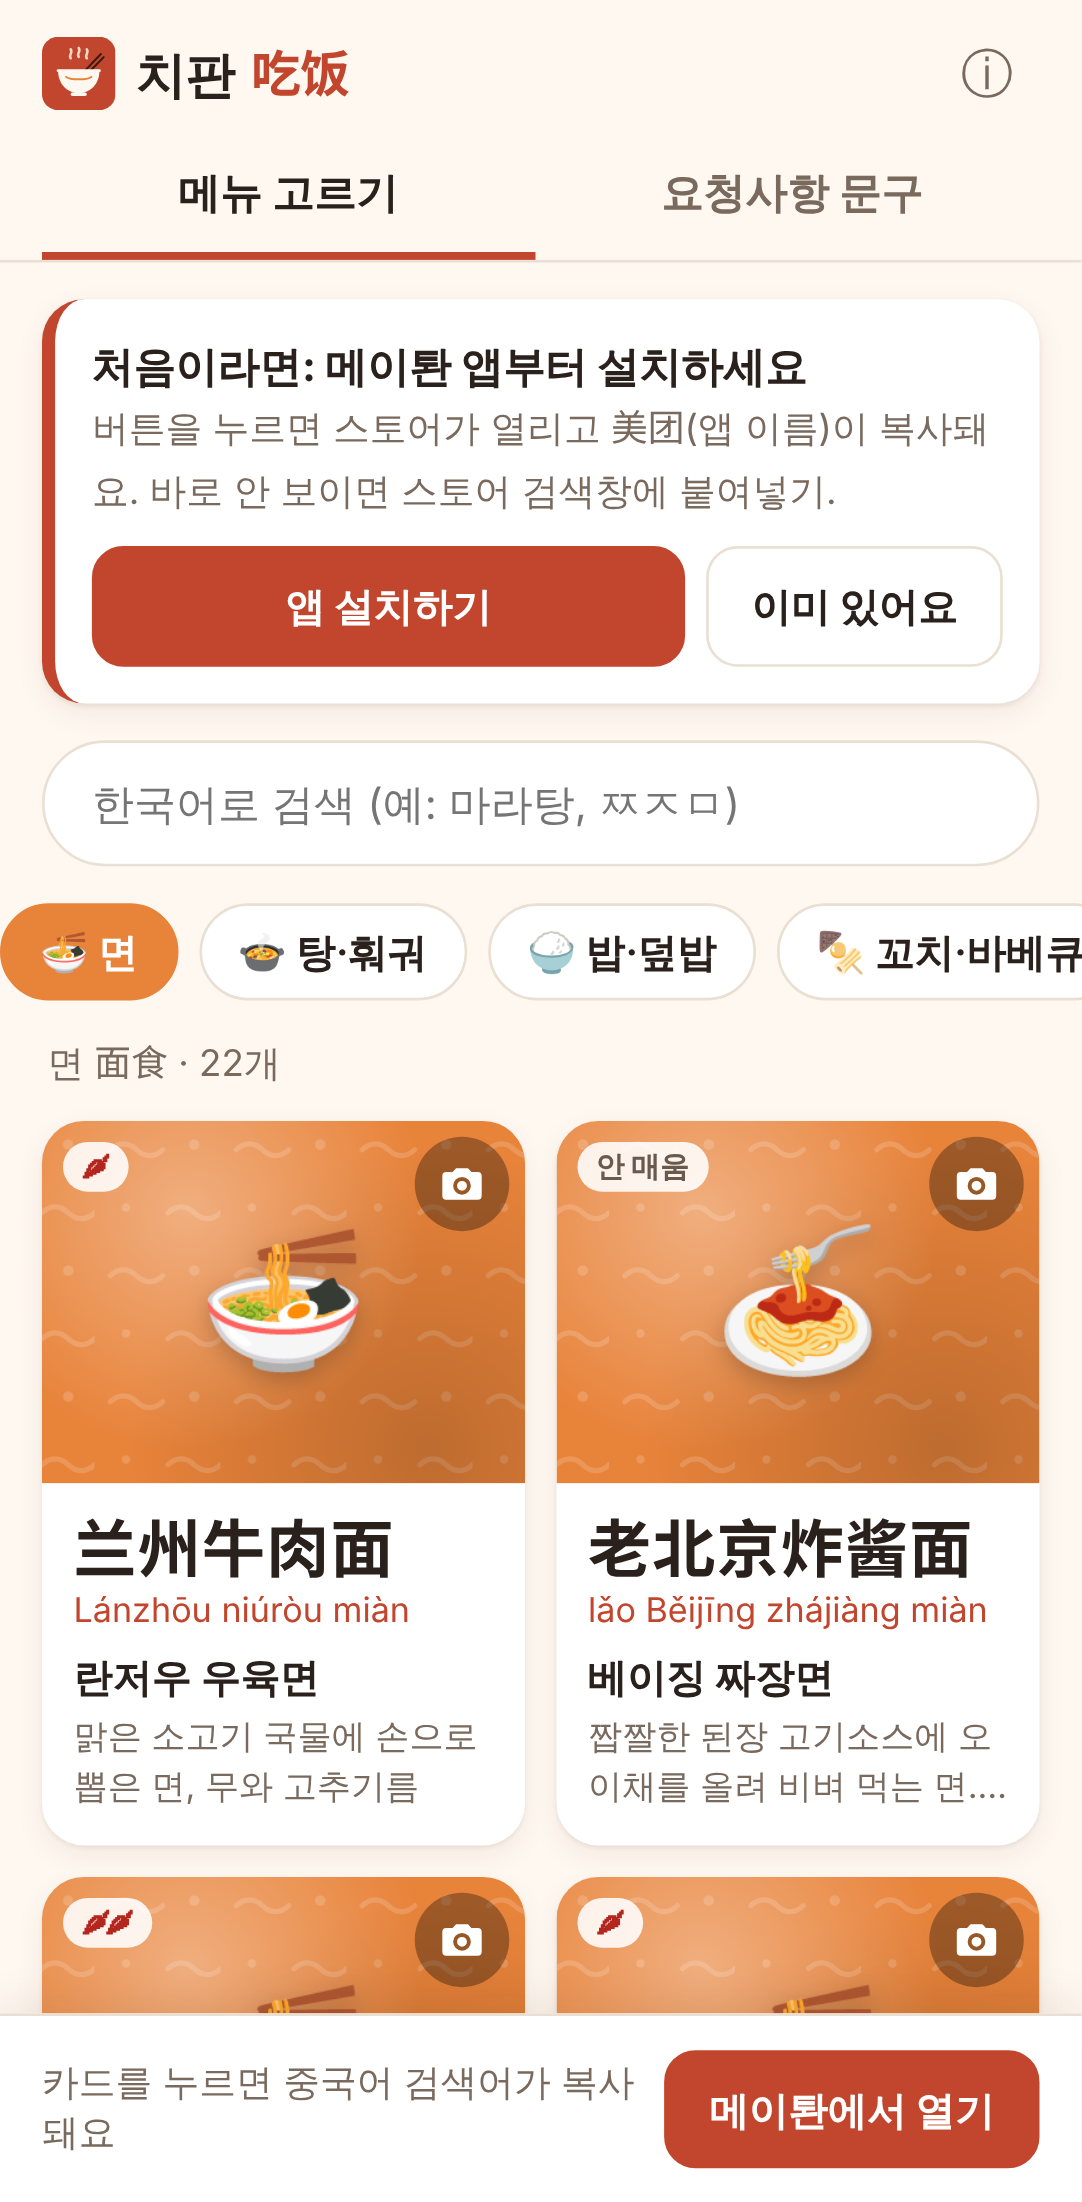
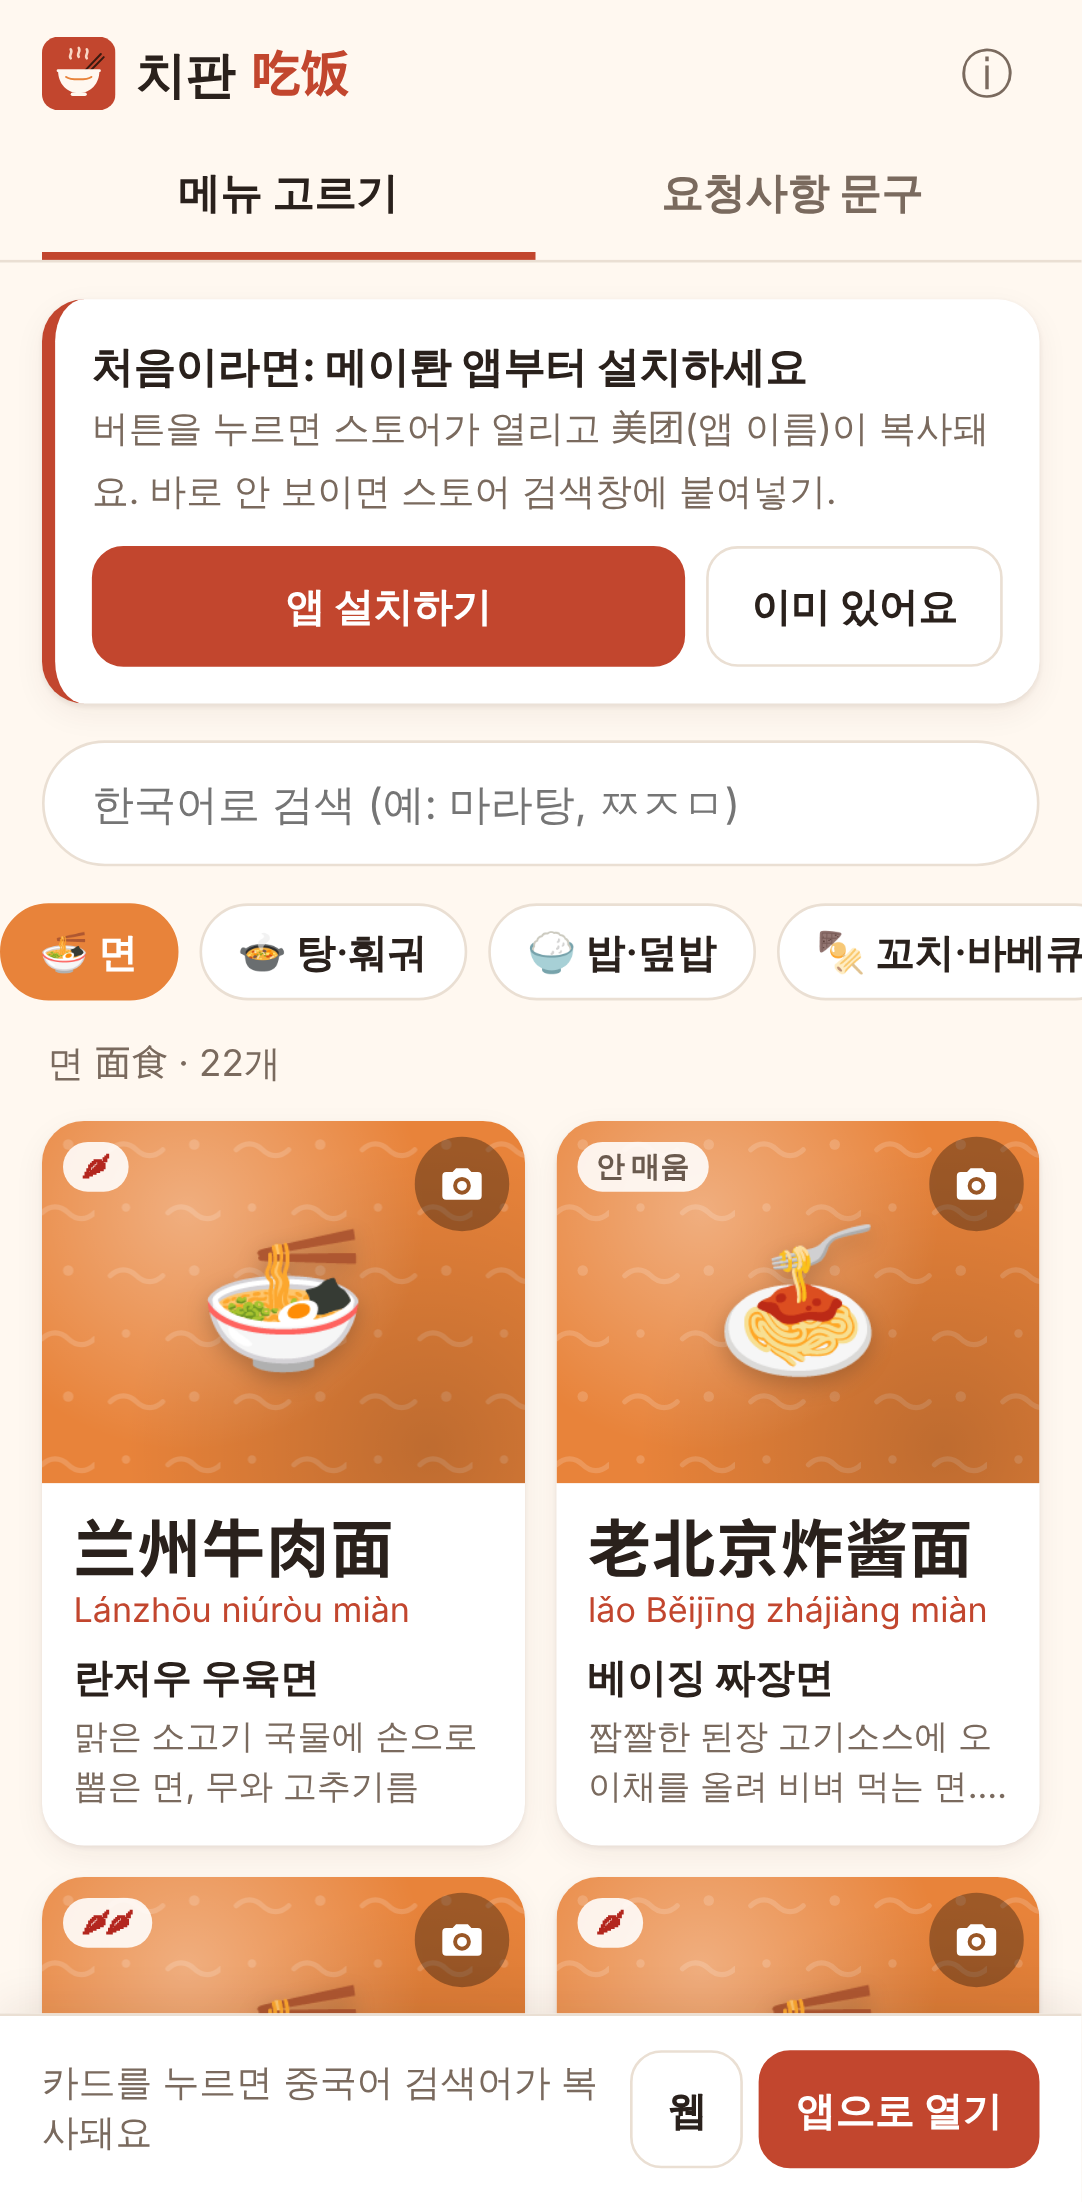
열기 버튼을 [앱으로 열기] / [웹] 두 개로
- 앱: 폰 종류(안드로이드/아이폰) 자동 인식 후 시도, 안 열리면 H5
- 웹 페이지에선 앱 설치 여부를 알 수 없으므로 사용자가 고르게 함
- PC·앱 안 브라우저에서는 [앱으로 열기] 숨김

Claude-Session: https://claude.ai/code/session_01W2qhPUjUcKVQUNqCzkCZnu

Changed region(s): [[0.5795, 0.9264, 0.915, 0.9882], [0.0305, 0.9573, 0.122, 0.9882]]

diff --git a/js/app.js b/js/app.js
@@ -80,12 +80,13 @@
   }
 
   // ---------- 앱 열기 ----------
-  function openApp() {
-    var how = Opener.openDelivery();
+  function openApp(mode) {
+    var how = Opener.openDelivery(mode);
     var msg = S.lastCopied
       ? '검색창을 길게 눌러 <b>붙여넣기</b> 하세요'
       : '먼저 메뉴 카드를 눌러 검색어를 복사해 두면 편해요';
-    if (how === 'h5' && Opener.env.inApp) msg = '앱 안 브라우저라 웹페이지로 열었어요. ' + msg;
+    if (mode === 'app' && how === 'h5' && Opener.env.inApp) msg = '앱 안 브라우저라 웹으로 열었어요. ' + msg;
+    else if (how !== 'h5') msg = '앱이 안 열리면 웹으로 넘어가요. ' + msg;
     toast(msg, 3200);
   }
 
@@ -227,7 +228,8 @@
       (f.check ? '<p class="note">이 중국어 표기는 아직 확인 중이에요. 검색 결과가 이상하면 비슷한 이름으로도 찾아보세요.</p>' : '') +
       '<div class="row">' +
         '<button class="btn primary" data-act="copy">검색어 복사</button>' +
-        '<button class="btn" data-act="open">메이퇀에서 열기</button>' +
+        (Opener.canTryApp() ? '<button class="btn" data-act="openApp">앱으로 열기</button>' : '') +
+        '<button class="btn" data-act="openWeb">웹으로 열기</button>' +
       '</div>' +
       '<div class="row">' +
         '<button class="btn" data-act="camera">📷 사진 찍기</button>' +
@@ -247,21 +249,21 @@
   }
 
   function showAbout() {
-    var cfg = window.CHIFAN_CONFIG, app = cfg.appOpen || {};
-    var openState = app.enabled
-      ? '앱 열기: 켜짐 (안드로이드 intent / iOS 스킴, 실패 시 웹페이지)'
-      : '앱 열기: <b>웹페이지(H5)만</b> 엽니다. 앱 주소가 실제 폰에서 확인되면 앱으로 바로 열 수 있게 바꿀 예정이에요.';
+    var env = Opener.env;
+    var openState = Opener.canTryApp()
+      ? '이 폰은 <b>' + (env.ios ? '아이폰' : '안드로이드') + '</b>으로 알아봤어요. [앱으로 열기]는 앱을 먼저 시도하고, 안 열리면 웹으로 넘어가요. 앱 주소는 아직 확인 중이에요.'
+      : (env.inApp ? '앱 안 브라우저에서는 웹으로만 열 수 있어요.' : '이 기기에서는 웹으로 열어요.');
     openSheet(
       '<h2>치판은 이런 앱이에요</h2>' +
       '<ol class="steps">' +
         '<li>메뉴 카드를 누르면 중국어 검색어가 <b>복사</b>돼요.</li>' +
-        '<li><b>[메이퇀에서 열기]</b>를 눌러 배달앱(또는 웹페이지)을 열어요.</li>' +
+        '<li><b>[앱으로 열기]</b> 또는 <b>[웹]</b>을 눌러 메이퇀을 열어요.</li>' +
         '<li>검색창을 길게 눌러 <b>붙여넣기</b> 하면 끝.</li>' +
       '</ol>' +
       '<p>' + openState + '</p>' +
       '<h3>배달앱이 없다면</h3>' +
       '<p>먼저 메이퇀 앱을 설치하세요. 아이폰은 중국 지역 Apple ID가 있어야 보일 수 있어요. ' +
-      '설치 전에는 [메이퇀에서 열기]가 웹페이지로 열려요.</p>' +
+      '앱이 없으면 [앱으로 열기]를 눌러도 웹으로 넘어가요.</p>' +
       '<div class="row"><button class="btn" data-act="installApp">메이퇀 앱 설치하기</button></div>' +
       '<h3>홈 화면에 추가</h3>' +
       '<p>안드로이드 크롬: 오른쪽 위 ⋮ → <b>홈 화면에 추가</b><br>아이폰 사파리: 공유 버튼 → <b>홈 화면에 추가</b><br>한 번 열어 두면 인터넷 없이도 메뉴를 볼 수 있어요.</p>' +
@@ -379,7 +381,9 @@
       }
     });
 
-    $('#openBtn').addEventListener('click', openApp);
+    $('#openAppBtn').addEventListener('click', function () { openApp('app'); });
+    $('#openWebBtn').addEventListener('click', function () { openApp('web'); });
+    $('#openAppBtn').hidden = !Opener.canTryApp();
     $('#installBtn').addEventListener('click', openInstall);
     $('#setupDone').addEventListener('click', function () { LS.set('setupDone', true); $('#setupCard').hidden = true; });
     $('#aboutBtn').addEventListener('click', showAbout);
@@ -392,7 +396,7 @@
       if (!b) return;
       var act = b.getAttribute('data-act'), f = S.sheetFood;
       if (act === 'copy' && f) copyFood(f);
-      else if (act === 'open') { closeSheet(); openApp(); }
+      else if (act === 'openApp' || act === 'openWeb') { closeSheet(); openApp(act === 'openApp' ? 'app' : 'web'); }
       else if (act === 'camera') pickPhoto(true);
       else if (act === 'pick') pickPhoto(false);
       else if (act === 'rmphoto' && f) {

diff --git a/tests/screens.js b/tests/screens.js
@@ -64,10 +64,20 @@ async function run(browser, name, dev) {
   assert.strictEqual(await page.evaluate(() => navigator.clipboard.readText()), '麻辣烫');
   await shot('02-copied');
 
-  // 2) [메이퇀에서 열기] → 설정상 H5만 (사용자 탭에서만)
+  // 2) 열기: 로드 시 자동 이동 없음. [웹] → H5, [앱으로 열기] → 폰 종류 자동 인식 후 앱 시도, 안 되면 H5
   assert.deepStrictEqual(await page.evaluate(() => window.__opened), [], '로드 시 자동으로 열면 안 됨');
-  await page.click('#openBtn');
+  await page.click('#openWebBtn');
   assert.deepStrictEqual(await page.evaluate(() => window.__opened), [H5]);
+  await page.evaluate(() => { window.__went = []; });
+  await page.click('#openAppBtn');
+  if (name === 'pixel7') {
+    assert.deepStrictEqual(await page.evaluate(() => window.__went),
+      ['intent://#Intent;scheme=imeituan;package=com.sankuai.meituan;S.browser_fallback_url=' + encodeURIComponent(H5) + ';end']);
+  } else {
+    assert.deepStrictEqual(await page.evaluate(() => window.__went), ['imeituan://']);
+    await page.waitForTimeout(1800); // 앱이 안 열리면 웹으로
+    assert.deepStrictEqual(await page.evaluate(() => window.__went), ['imeituan://', H5]);
+  }
 
   // 3) 한국어 검색: 초성 / 부분 / 입력 중
   const search = async q => {
@@ -141,6 +151,7 @@ async function inApp(browser) {
   await page.goto(BASE);
   await page.waitForSelector('.card');
   assert.ok(await page.isVisible('#inappBanner'));
+  assert.ok(!(await page.isVisible('#openAppBtn')), '앱 안 브라우저에서는 [앱으로 열기] 숨김');
   await page.click('#setupDone');
   await page.screenshot({ path: path.join(out, 'pixel7-08-inapp.png') });
   await ctx.close();

diff --git a/js/open.js b/js/open.js
@@ -41,10 +41,11 @@
     go(url);
   }
 
+  // mode: 'app' = 앱 시도 후 안 되면 웹, 'web' = 웹만.
   // 어떤 방식으로 열었는지 돌려준다: 'h5' | 'android-intent' | 'ios-scheme'
-  function openDelivery() {
+  function openDelivery(mode) {
     var cfg = window.CHIFAN_CONFIG, h5 = cfg.h5Url, app = cfg.appOpen || {};
-    if (!app.enabled || env.inApp) { openH5(h5); return 'h5'; }
+    if (mode !== 'app' || !app.enabled || env.inApp) { openH5(h5); return 'h5'; }
     if (env.android && app.android && app.android.package) { go(androidIntent(app.android, h5)); return 'android-intent'; }
     if (env.ios && app.ios && app.ios.url) { tryThen(app.ios.url, h5, app.ios.fallbackMs); return 'ios-scheme'; }
     openH5(h5);
@@ -61,5 +62,11 @@
     return 'web-store';
   }
 
-  window.Opener = { env: env, openDelivery: openDelivery, openInstall: openInstall, androidIntent: androidIntent };
+  // 앱 열기를 시도할 수 있는 폰인가 (안드로이드·아이폰, 앱 안 브라우저 제외)
+  function canTryApp() {
+    var app = window.CHIFAN_CONFIG.appOpen || {};
+    return !!app.enabled && !env.inApp && (env.android || env.ios);
+  }
+
+  window.Opener = { env: env, canTryApp: canTryApp, openDelivery: openDelivery, openInstall: openInstall, androidIntent: androidIntent };
 })();

diff --git a/js/config.js b/js/config.js
@@ -1,13 +1,15 @@
 // 앱 여는 주소는 이 파일 한 곳에만 둔다.
 // 아래 스킴·패키지명은 아직 실제 폰에서 확인되지 않은 추정값이다.
-// 확인 전까지 appOpen.enabled = false → [메이퇀에서 열기]는 H5 페이지만 연다.
+// 화면에는 [앱으로 열기]와 [웹] 두 버튼이 있다. 사용자가 고른다.
+// [앱으로 열기]는 폰 종류(안드로이드/아이폰)를 자동으로 알아보고 앱을 시도하며, 안 열리면 H5로 넘어간다.
+// appOpen.enabled = false로 두면 [앱으로 열기] 버튼을 숨긴다(웹만).
 // 실기기에서 확인되면 값을 고치고 README의 "확인된 값" 표에 날짜와 함께 기록할 것.
 window.CHIFAN_CONFIG = {
   // 배달 H5 홈 (앱이 없거나 앱 열기가 꺼져 있을 때 여는 주소)
   h5Url: 'https://h5.waimai.meituan.com/waimai/mindex/home',
 
   appOpen: {
-    enabled: false,              // 실기기 확인 전에는 false 유지
+    enabled: true,               // 사용자가 [앱으로 열기]를 고를 때만 시도. 실패하면 H5
 
     android: {
       // intent://<path>#Intent;scheme=<scheme>;package=<package>;S.browser_fallback_url=<h5>;end

diff --git a/index.html b/index.html
@@ -73,7 +73,10 @@
 
 <div class="dock" id="dock">
   <div class="dock-text" id="dockText">카드를 누르면 중국어 검색어가 복사돼요</div>
-  <button class="btn primary" id="openBtn">메이퇀에서 열기</button>
+  <div class="dock-btns">
+    <button class="btn" id="openWebBtn" aria-label="메이퇀 웹으로 열기">웹</button>
+    <button class="btn primary" id="openAppBtn" aria-label="메이퇀 앱으로 열기">앱으로 열기</button>
+  </div>
 </div>
 
 <div class="toast" id="toast" role="status" aria-live="polite"></div>

diff --git a/css/style.css b/css/style.css
@@ -250,3 +250,6 @@ body.no-dock .toast { bottom: calc(env(safe-area-inset-bottom) + 24px); }
 .setup-text span { font-size: 14px; color: var(--muted); }
 .setup-actions { display: flex; gap: 8px; margin-top: 10px; }
 .setup-actions .btn.primary { flex: 1; }
+
+.dock-btns { display: flex; gap: 6px; flex: none; }
+.dock-btns .btn { padding: 11px 13px; }

diff --git a/sw.js b/sw.js
@@ -1,5 +1,5 @@
 // 오프라인용 서비스워커. 파일을 바꾸면 VERSION을 올릴 것.
-var VERSION = 'chifan-v3';
+var VERSION = 'chifan-v4';
 var CORE = [
   './',
   'index.html',

diff --git a/README.md b/README.md
@@ -24,7 +24,7 @@
 | 앱 설치 안내 | 첫 화면 위 카드: **[앱 설치하기]** → 스토어 열기 + `美团` 복사(스토어 검색창에 붙여넣기용). **[이미 있어요]**로 숨김. 정보(ⓘ)에도 설치 버튼 |
 | 메뉴 고르기 | 카테고리 10개 탭 → 카드 그리드. 카드에 중국어(크게)·병음·한국어 이름·한 줄 설명·맵기 |
 | 검색어 복사 | 카드를 누르면 중국어 검색어 자동 복사 + “복사됨: 麻辣烫” 토스트. 하단 바에 마지막 검색어 표시 |
-| 앱 열기 | 하단 **[메이퇀에서 열기]** 버튼. 사용자가 누를 때만 연다. 지금은 **H5 페이지만** 연다(아래 참고) |
+| 앱 열기 | 하단 **[앱으로 열기]** / **[웹]** 두 버튼, 사용자가 고른다. 누를 때만 연다. 앱은 폰 종류를 자동 인식해 시도하고 안 열리면 웹으로(아래 참고) |
 | 한국어 검색 | 이름·별칭 부분 일치, 초성(`ㅁㄹㅌ`, `ㅉㅈㅁ`), 입력 중인 글자(`말` → 마라탕), 중국어·병음(`mala`)도 됨 |
 | 요청사항 문구 | 35개 문구를 골라 중국어 주문 메모(`少辣，不要香菜，不需要餐具…`)로 복사. 서로 겹치는 것(맵기, 얼음 등)은 하나만 |
 | 내 사진 | 카드의 📷 → 상세 화면에서 사진 찍기/앨범에서 고르기. **이 기기 IndexedDB에만** 저장(긴 변 720px JPEG로 줄여서) |
@@ -46,11 +46,14 @@
 앱 여는 주소는 **`js/config.js` 한 곳**에만 있다.
 
 1. 카드를 누르면 검색어가 클립보드에 복사된다. (검색어를 앱에 직접 넘기는 딥링크 형식은 공개돼 있지 않아서 클립보드가 기본)
-2. **[메이퇀에서 열기]** → `appOpen.enabled`가
-   - `false`(현재 기본값): H5 `https://h5.waimai.meituan.com/waimai/mindex/home` 를 새 탭으로 연다.
-   - `true`: 안드로이드는 `intent://<path>#Intent;scheme=<scheme>;package=<package>;S.browser_fallback_url=<H5>;end`,
+2. 하단 바에서 사용자가 고른다.
+   - **[웹]**: H5 `https://h5.waimai.meituan.com/waimai/mindex/home` 를 새 탭으로 연다.
+   - **[앱으로 열기]**: 폰 종류를 User-Agent로 자동 인식한다.
+     안드로이드는 `intent://<path>#Intent;scheme=<scheme>;package=<package>;S.browser_fallback_url=<H5>;end`,
      iOS는 URL 스킴을 시도하고 `fallbackMs`(1.6초) 안에 페이지가 숨겨지지 않으면 H5로 넘어간다.
-     인앱 브라우저에서는 앱 열기를 시도하지 않고 H5로 연다.
+     PC나 앱 안 브라우저(카톡·위챗 등)에서는 이 버튼을 숨긴다.
+   - 웹 페이지는 앱이 **설치돼 있는지 알 수 없다.** 그래서 자동으로 고르지 않고 두 버튼을 둔다.
+   - `appOpen.enabled: false`로 두면 [앱으로 열기]를 숨긴다(웹만).
 3. 사용자가 앱 검색창을 길게 눌러 붙여넣기.
 
 페이지가 열리자마자 앱으로 넘기는 동작은 없다(브라우저가 막거나 확인창을 띄우므로). 모든 이동은 사용자 탭에서만.
